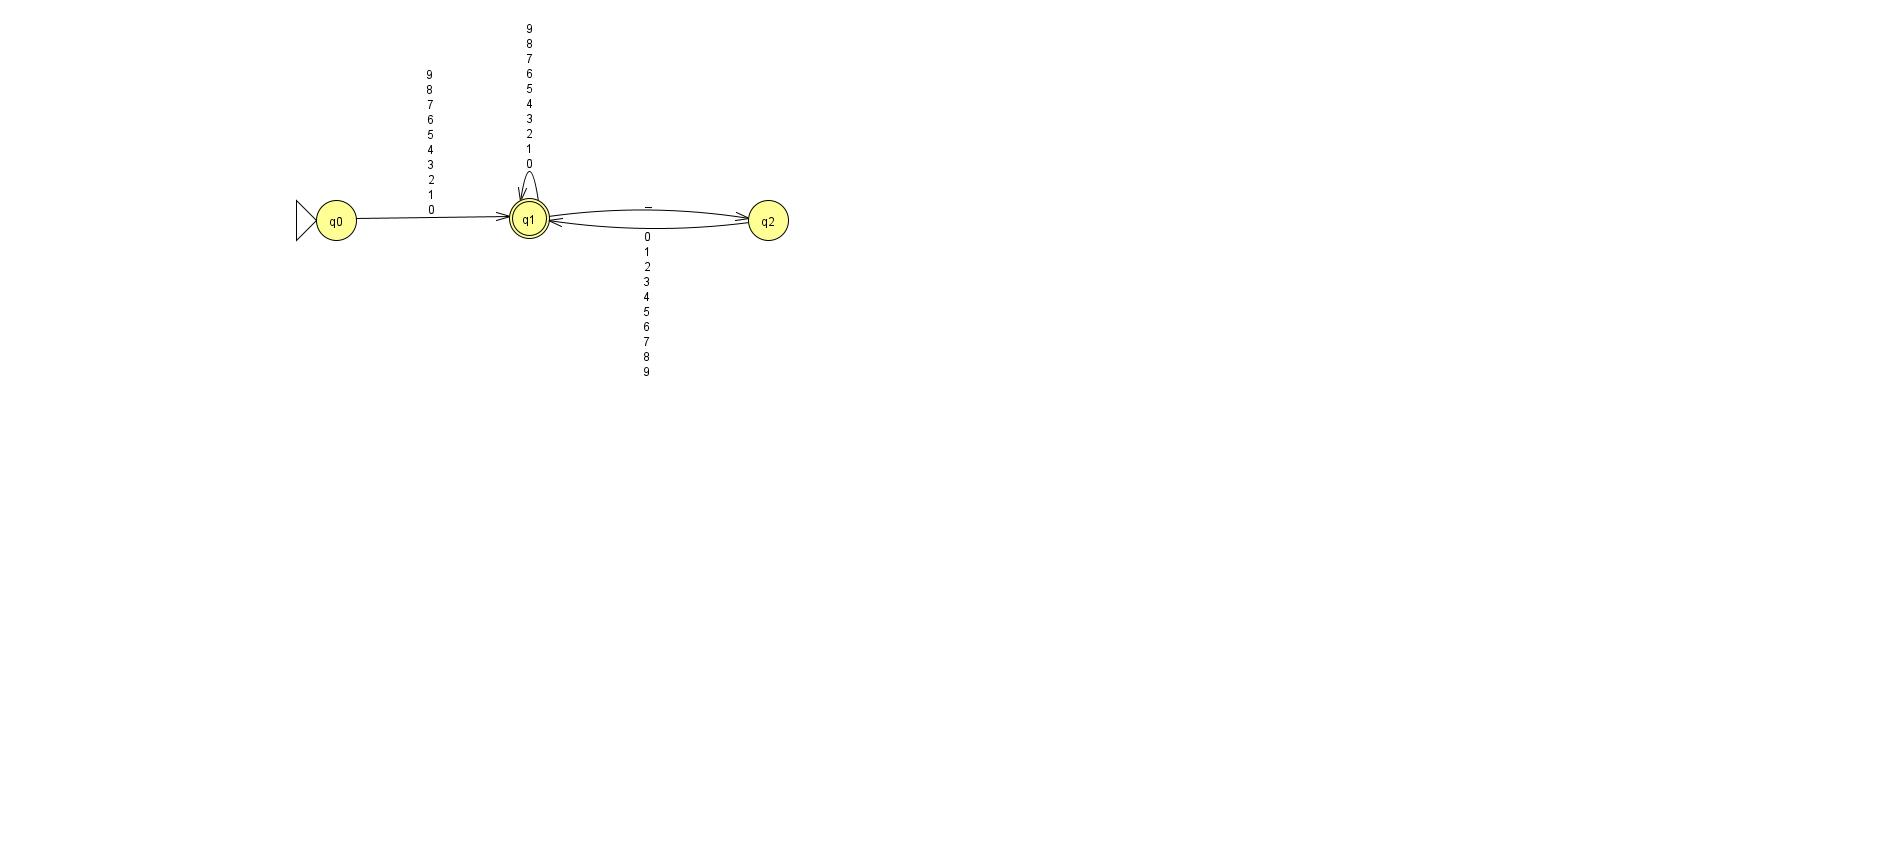
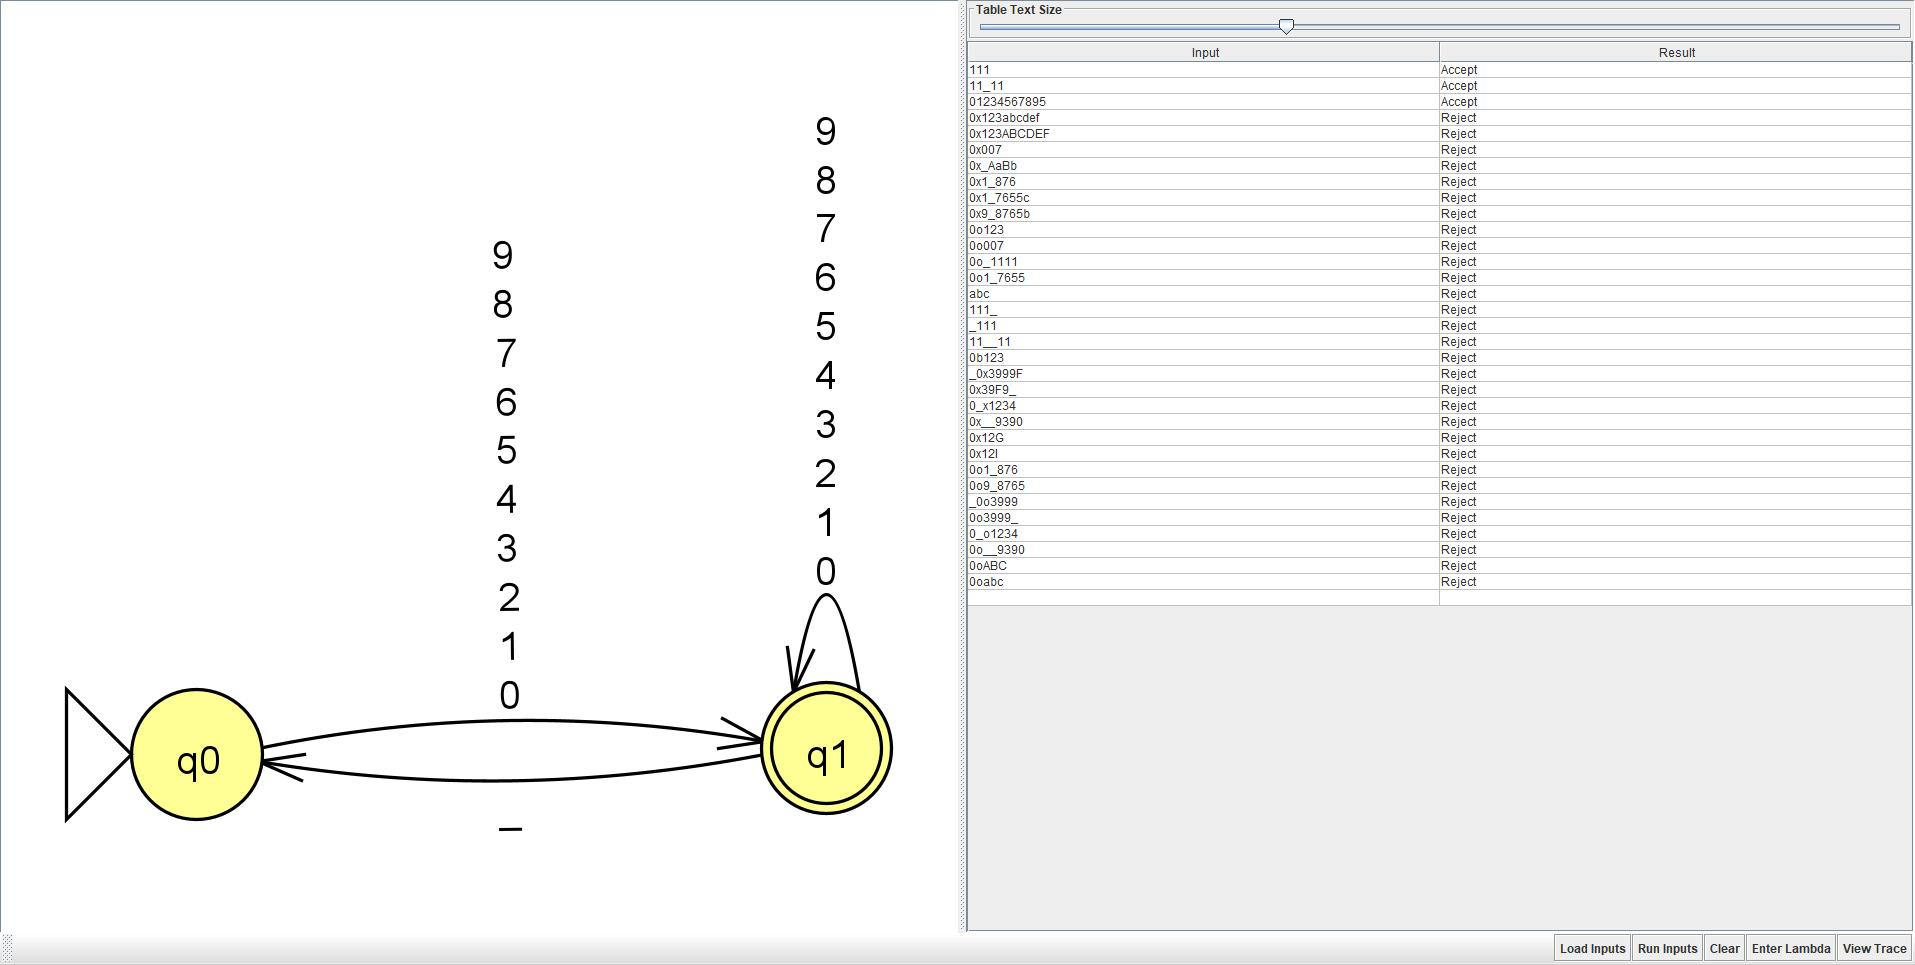
Setup LiteralChecker for checking decimal integer literals in Python. Updated NFA to a simpler design.

diff --git a/decInt.py b/decInt.py
@@ -1,0 +1,43 @@
+#Make an array for the allowed characters that are in decimal integers in Python (0-9)
+allowedChars = ['0', '1', '2', '3', '4', '5', '6', '7', '8', '9']
+
+#Method for starting state.
+def state0(word, index):
+    #Checks if the given input has no more characters left.
+    if index >= len(word):
+        # Since state 0 isn't an accepting statement, return False.
+        return False
+
+    #Gets the character of input at the specified index.
+    char = word[index]
+
+    #Checks if the given character is in the array of allowed characters.
+    if char in allowedChars:
+        #If the char is in the allowed characters it will go into the next state (state1).
+        return state1(word, index + 1)
+
+    #If there are no valid characters it will be rejected and return False.
+    return False
+
+#Method for accepting state.
+def state1(word, index):
+    #Checks if given input has no characters left.
+    if index >= len(word):
+        # Since state 1 is an accepting statement, return True
+        return True
+
+    #Gets the character of input at the specified index.
+    char = word[index]
+
+    #Checks if the given character is in the array of allowed characters.
+    if char in allowedChars:
+        #If the char is in the allowed characters it will stay in state1.
+        return state1(word, index + 1)
+
+    #Checks if the given character is an underscore.
+    elif char == "_":
+        #If the char is an underscore it will go back to state0.
+        return state0(word, index + 1)
+
+    #If there is no valid characters it will be rejected and return false.
+    return False

diff --git a/LiteralChecker.py b/LiteralChecker.py
@@ -1,0 +1,16 @@
+from decInt import state0
+
+#Opens and takes content from file.
+try:
+    with open("in_ans.txt", "r") as file:
+        #Reads the lines in a file and converts to an array.
+        words = file.read().splitlines()
+except FileNotFoundError:
+    print("File not found")
+
+#Iterates through array and checks if the input is accepted or rejected.
+for word in words:
+    if state0(word, 0):
+        print(f"Accepted {word}")
+    else:
+        print(f"Rejected {word}")
